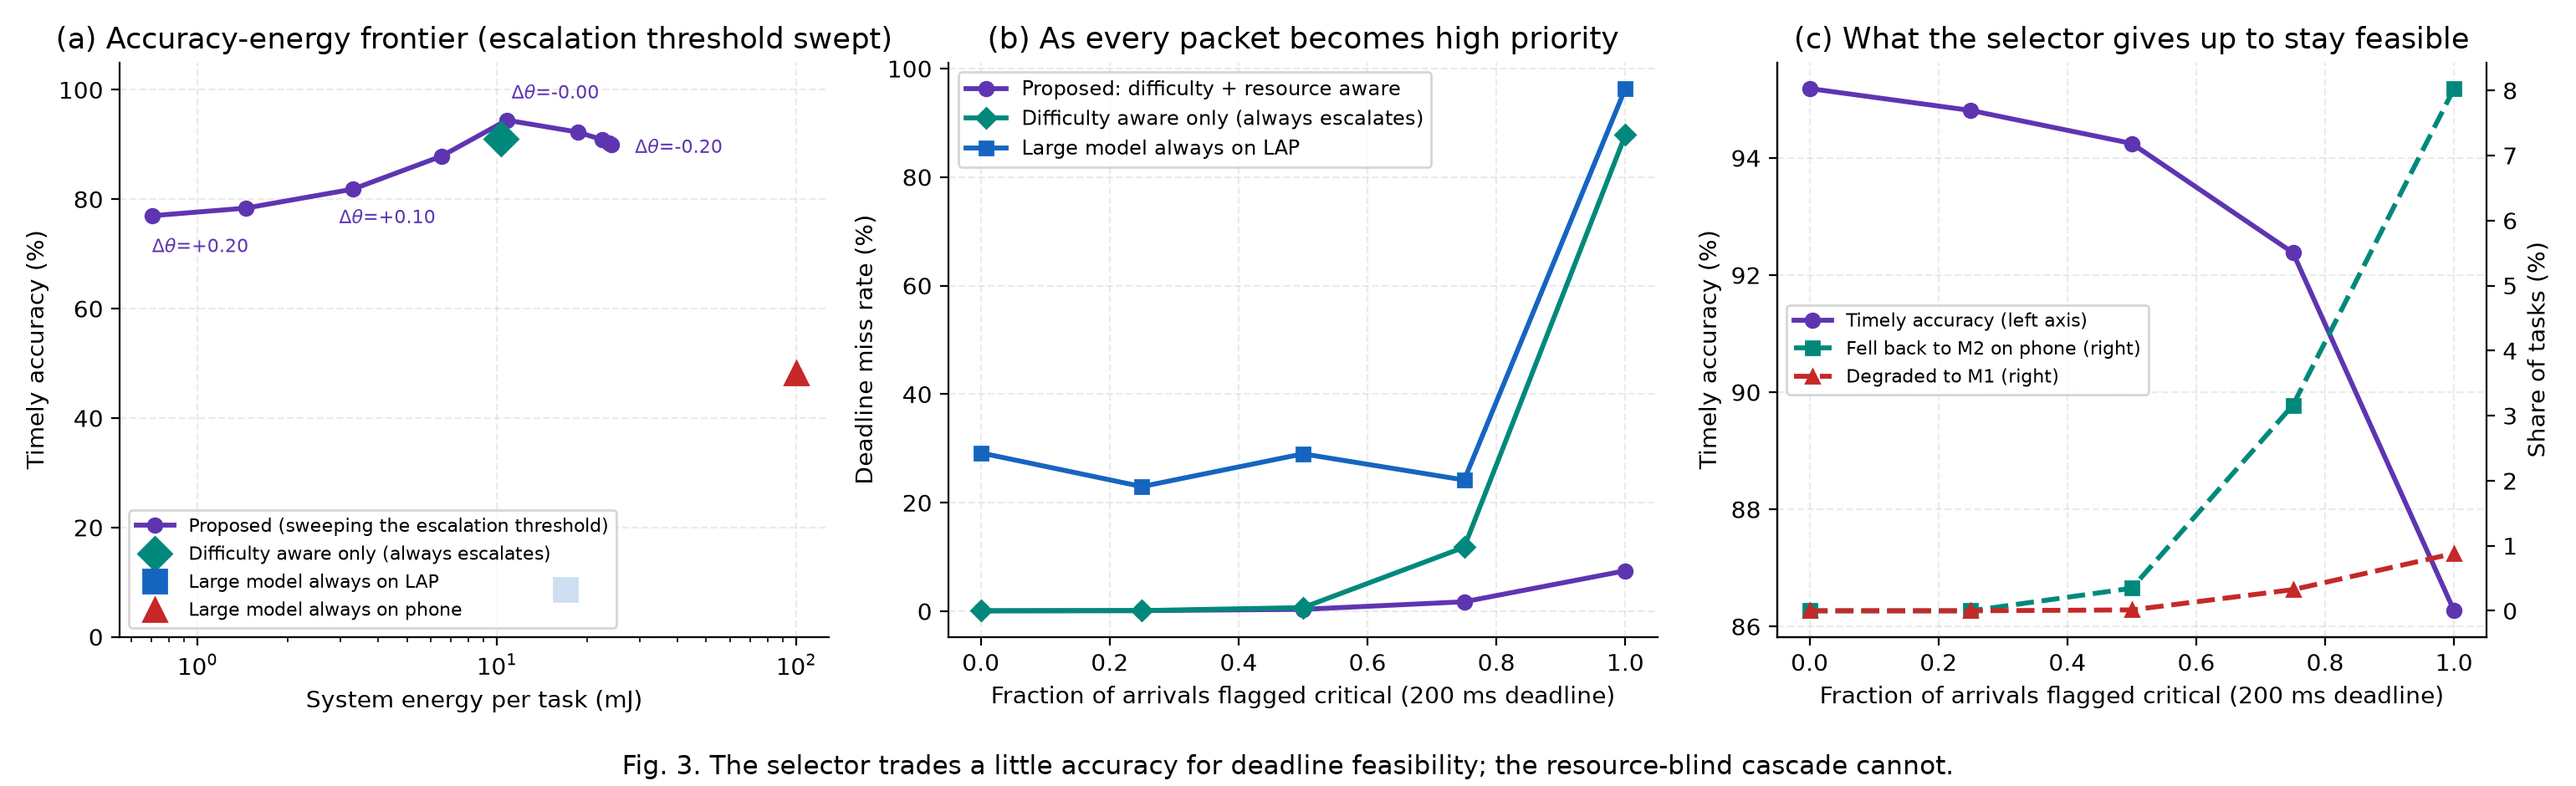
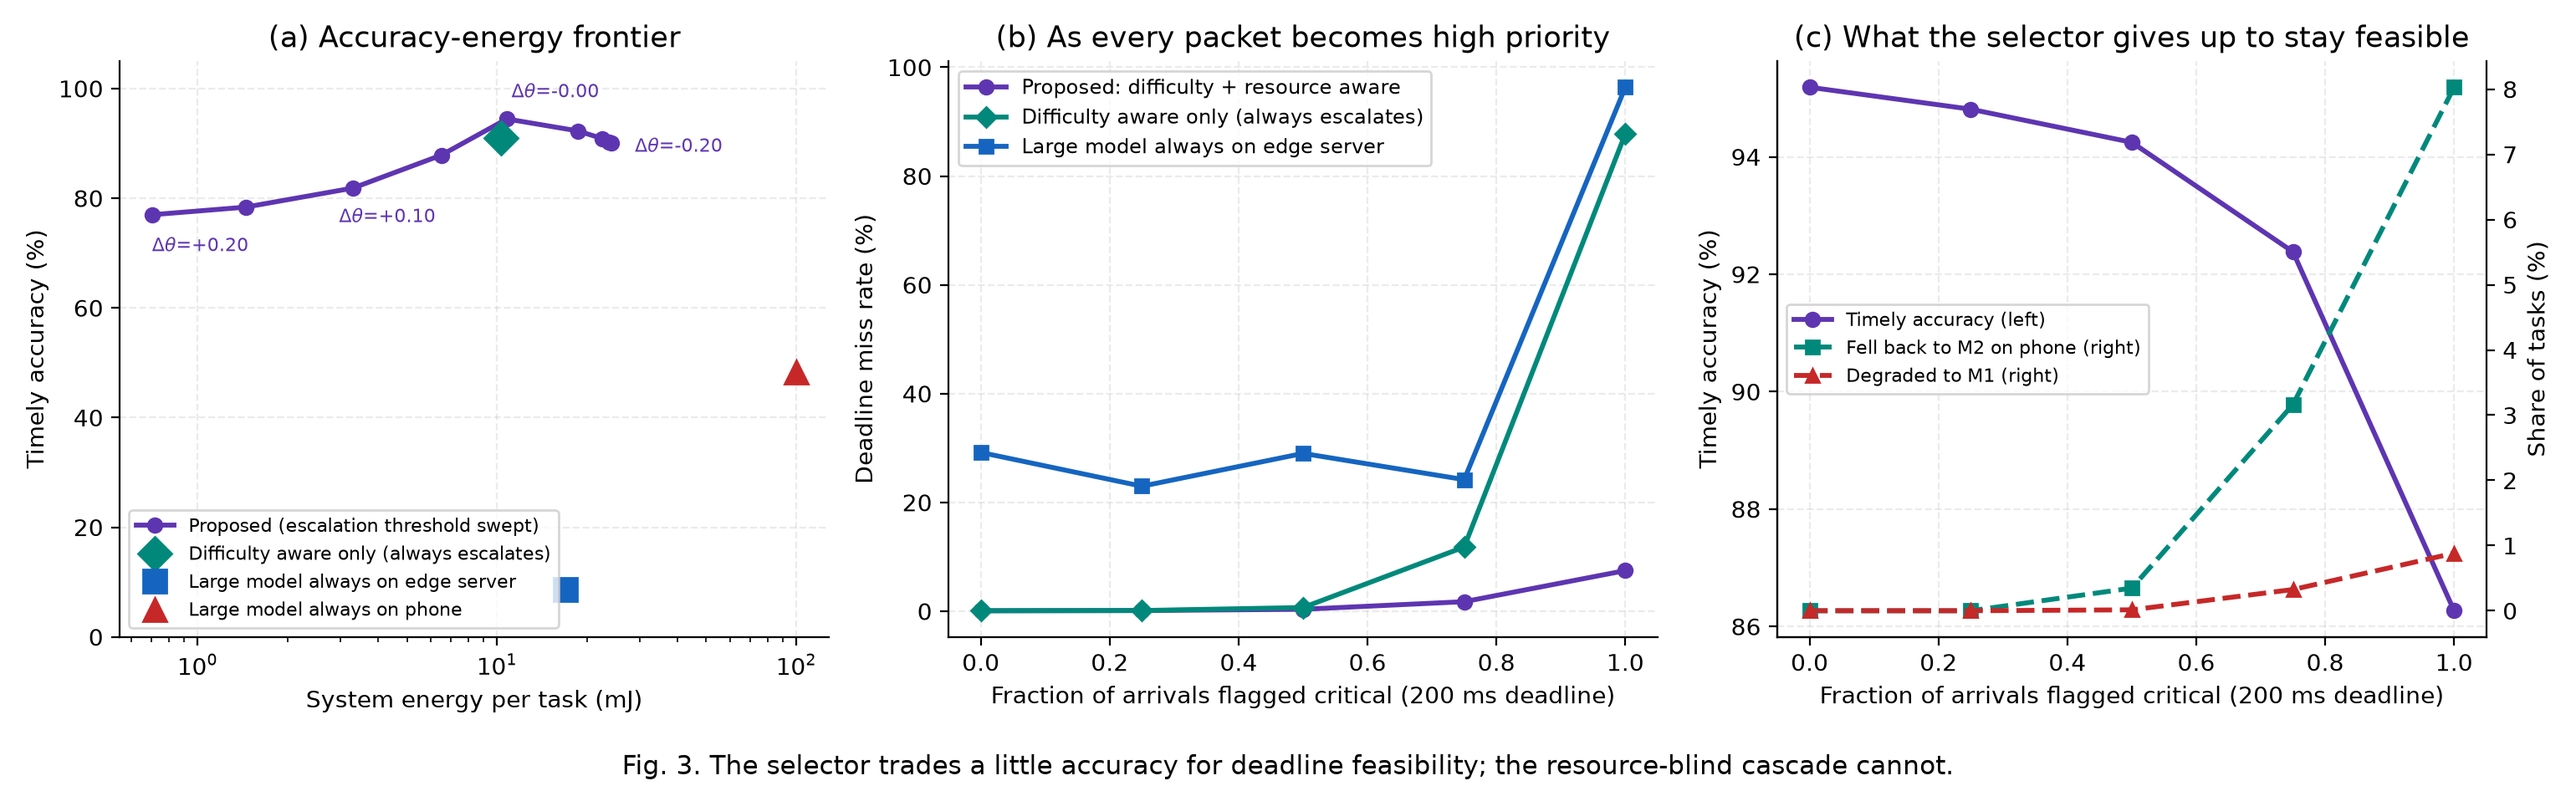
Updated plots

diff --git a/plots1.py b/plots1.py
@@ -1,0 +1,199 @@
+"""Figures from results.json — green-electronics framing."""
+
+import json
+import csv
+import numpy as np
+import matplotlib
+matplotlib.use("Agg")
+import matplotlib.pyplot as plt
+
+from sim import N_USERS, SIM_TIME
+
+OUT = "."
+D = json.load(open("results.json"))
+loads = np.array(D["loads"]) * D["base_rate"]
+crit = np.array(D["crit"])
+theta = np.array(D["theta"])
+RL, RC, RT, REF = D["res_load"], D["res_crit"], D["res_theta"], D["ref"]
+
+SCHEMES = ["proposed", "cascade", "big_lap", "big_phone"]
+STYLE = {
+    "proposed":  ("Proposed: difficulty + resource aware", "#5E35B1", "-o"),
+    "cascade":   ("Difficulty aware only (always escalates)", "#00897B", "-D"),
+    "big_lap":   ("Large model always on edge server", "#1565C0", "-s"),
+    "big_phone": ("Large model always on phone", "#C62828", "-^"),
+}
+KW = dict(lw=2.1, ms=6)
+
+
+def tidy(a):
+    a.grid(alpha=0.25, ls="--")
+    for sp in ("top", "right"):
+        a.spines[sp].set_visible(False)
+
+
+def e_useful(r):
+    """mJ spent per decision that is both correct and on time."""
+    return np.array(r["e_task"]) * 1e3 / np.maximum(np.array(r["timely_acc"]), 1e-6)
+
+
+def phone_mw(r):
+    """Average power the monitoring app draws from one phone."""
+    total_J = np.array(r["e_phone_task"]) * np.array(r["done"])
+    return total_J / (N_USERS * SIM_TIME) * 1e3
+
+
+# ================================================================= Fig 2
+fig, ax = plt.subplots(2, 3, figsize=(17.4, 8.8))
+
+# --- energy row ---
+for s_, (lab, c, mk) in STYLE.items():
+    ax[0, 0].plot(loads, np.array(RL[s_]["e_task"]) * 1e3, mk, color=c, label=lab, **KW)
+ax[0, 0].set_yscale("log")
+ax[0, 0].set_ylabel("System energy per task (mJ)")
+ax[0, 0].set_title("(a) Energy per task attempted", fontsize=12.5)
+ax[0, 0].legend(fontsize=8, loc="center left")
+
+for s_, (lab, c, mk) in STYLE.items():
+    ax[0, 1].plot(loads, e_useful(RL[s_]), mk, color=c, label=lab, **KW)
+ax[0, 1].set_yscale("log")
+ax[0, 1].set_ylabel("Energy per useful decision (mJ)")
+ax[0, 1].set_title("(b) Energy per correct, on-time decision", fontsize=12.5)
+
+for s_, (lab, c, mk) in STYLE.items():
+    ax[0, 2].plot(loads, phone_mw(RL[s_]), mk, color=c, label=lab, **KW)
+ax[0, 2].set_yscale("log")
+ax[0, 2].set_ylabel("Smartphone power draw (mW)")
+ax[0, 2].set_title("(c) Continuous drain on the consumer device", fontsize=12.5)
+
+# --- service-quality row ---
+for s_, (lab, c, mk) in STYLE.items():
+    ax[1, 0].plot(loads, np.array(RL[s_]["timely_acc"]) * 100, mk, color=c, label=lab, **KW)
+ax[1, 0].set_ylabel("Timely accuracy (%)")
+ax[1, 0].set_title("(d) Correct decisions before the deadline", fontsize=12.5)
+ax[1, 0].set_ylim(0, 100)
+
+for s_, (lab, c, mk) in STYLE.items():
+    ax[1, 1].plot(loads, np.array(RL[s_]["miss"]) * 100, mk, color=c, label=lab, **KW)
+ax[1, 1].set_ylabel("Deadline miss rate (%)")
+ax[1, 1].set_title("(e) Deadline misses", fontsize=12.5)
+ax[1, 1].set_ylim(-3, 100)
+
+p_ = RL["proposed"]
+m1 = np.array(p_["m1_share"]) * 100
+m2 = np.array(p_["m2_share"]) * 100
+m3 = np.array(p_["m3_share"]) * 100
+deg = np.array(p_["degraded"]) * 100
+ax[1, 2].stackplot(loads, m1 - deg, m2, m3, deg,
+                   labels=["M1 screener only (easy)", "M2 fusion on phone",
+                           "M3 fusion on edge", "Degraded: no capacity"],
+                   colors=["#EDE7F6", "#9575CD", "#4527A0", "#C62828"])
+ax[1, 2].set_ylabel("Share of tasks (%)")
+ax[1, 2].set_title("(f) Where the proposed scheme sends work", fontsize=12.5)
+ax[1, 2].set_ylim(0, 100)
+ax[1, 2].set_xlim(loads[0], loads[-1])
+ax[1, 2].legend(fontsize=8, loc="center left")
+
+for a in ax.flat:
+    a.set_xlabel("Offered load (tasks/s across all patients)")
+    tidy(a)
+
+fig.tight_layout(rect=[0, 0.035, 1, 1])
+fig.text(0.5, 0.012, f"Fig. 2. {N_USERS} patients, six sensors each, sharing one edge "
+                     "server. M1 screens a single stream; M2 and M3 fuse all six. "
+                     "(a) and (b) differ because work the congested baselines never "
+                     "finish costs them no energy.",
+         ha="center", fontsize=11)
+fig.savefig(f"{OUT}/results_main.png", dpi=200)
+
+# ================================================================= Fig 3
+fig2, ax2 = plt.subplots(1, 3, figsize=(15.4, 4.7))
+
+# (a) accuracy-energy frontier as the escalation threshold moves
+t = RT["proposed"]
+ax2[0].plot(np.array(t["e_task"]) * 1e3, np.array(t["timely_acc"]) * 100, "-o",
+               color="#5E35B1", label="Proposed (escalation threshold swept)", **KW)
+for i, th in enumerate(theta):
+    if th in (-0.20, 0.0, 0.10, 0.20):
+        dx, dy = {-0.20: (10, -4), 0.0: (2, 9), 0.10: (-6, -15), 0.20: (0, -16)}[th]
+        ax2[0].annotate(f"$\\Delta\\theta$={th:+.2f}",
+                           (t["e_task"][i] * 1e3, t["timely_acc"][i] * 100),
+                           textcoords="offset points", xytext=(dx, dy), fontsize=8,
+                           color="#5E35B1")
+for s in ("cascade", "big_lap", "big_phone"):
+    lab, c, mk = STYLE[s]
+    ax2[0].plot(REF[s]["e_task"] * 1e3, REF[s]["timely_acc"] * 100, mk[-1],
+                   color=c, ms=10, label=lab)
+ax2[0].set_xscale("log")
+ax2[0].set_xlabel("System energy per task (mJ)")
+ax2[0].set_ylabel("Timely accuracy (%)")
+ax2[0].set_title("(a) Accuracy-energy frontier", fontsize=12.5)
+ax2[0].legend(fontsize=8, loc="lower left")
+ax2[0].set_ylim(0, 105)
+
+# (c) all-critical stress
+for s in [x for x in ("proposed", "cascade", "big_lap") if x in RC]:
+    lab, c, mk = STYLE[s]
+    ax2[1].plot(crit, np.array(RC[s]["miss"]) * 100, mk, color=c, label=lab, **KW)
+ax2[1].set_xlabel("Fraction of arrivals flagged critical (200 ms deadline)")
+ax2[1].set_ylabel("Deadline miss rate (%)")
+ax2[1].set_title("(b) As every packet becomes high priority", fontsize=12.5)
+ax2[1].legend(fontsize=8.5)
+
+# (d) what the selector gives up
+ax2[2].plot(crit, np.array(RC["proposed"]["timely_acc"]) * 100, "-o",
+               color="#5E35B1", label="Timely accuracy (left)", **KW)
+ax2[2].set_xlabel("Fraction of arrivals flagged critical (200 ms deadline)")
+ax2[2].set_ylabel("Timely accuracy (%)")
+ax2[2].set_title("(c) What the selector gives up to stay feasible", fontsize=12.5)
+ax3 = ax2[2].twinx()
+ax3.plot(crit, np.array(RC["proposed"]["m2_share"]) * 100, "--s",
+         color="#00897B", label="Fell back to M2 on phone (right)", **KW)
+ax3.plot(crit, np.array(RC["proposed"]["degraded"]) * 100, "--^",
+         color="#C62828", label="Degraded to M1 (right)", **KW)
+ax3.set_ylabel("Share of tasks (%)")
+ax3.spines["top"].set_visible(False)
+h1, l1 = ax2[2].get_legend_handles_labels()
+h2, l2 = ax3.get_legend_handles_labels()
+ax2[2].legend(h1 + h2, l1 + l2, fontsize=8, loc="center left")
+
+for a in ax2:
+    tidy(a)
+fig2.tight_layout(rect=[0, 0.06, 1, 1])
+fig2.text(0.5, 0.015, "Fig. 3. The selector trades a little accuracy for deadline "
+                      "feasibility; the resource-blind cascade cannot.",
+          ha="center", fontsize=11)
+fig2.savefig(f"{OUT}/results_tradeoff.png", dpi=200)
+
+# ================================================================= CSV
+with open(f"{OUT}/results.csv", "w", newline="") as f:
+    w = csv.writer(f)
+    w.writerow(["sweep", "scheme", "x", "energy_per_task_mJ",
+                "energy_per_useful_decision_mJ", "phone_energy_per_task_mJ",
+                "accuracy", "timely_accuracy", "miss_pct", "degraded_pct",
+                "m1_pct", "m2_pct", "m3_pct", "lat_mean_ms"])
+    for lab, res, xs in (("load_tasks_per_s", RL, loads),
+                         ("crit_frac", RC, crit),
+                         ("theta_shift", RT, theta)):
+        for s, r in res.items():
+            eu = e_useful(r)
+            for i, xv in enumerate(xs):
+                w.writerow([lab, s, round(float(xv), 3),
+                            round(r["e_task"][i] * 1e3, 3),
+                            round(float(eu[i]), 2),
+                            round(r["e_phone_task"][i] * 1e3, 3),
+                            round(r["acc"][i], 4),
+                            round(r["timely_acc"][i], 4),
+                            round(r["miss"][i] * 100, 2),
+                            round(r["degraded"][i] * 100, 2),
+                            round(r["m1_share"][i] * 100, 2),
+                            round(r["m2_share"][i] * 100, 2),
+                            round(r["m3_share"][i] * 100, 2),
+                            round(r["lat_mean"][i] * 1e3, 2)])
+
+print("figures + csv written\n")
+print(f"{'scheme':11s} {'mJ/useful @low':>15} {'@high':>9} "
+      f"{'phone mW @low':>14} {'@high':>9}")
+for s in SCHEMES:
+    r, eu, pw = RL[s], e_useful(RL[s]), phone_mw(RL[s])
+    print(f"{s:11s} {eu[0]:15.1f} {eu[-1]:9.1f} {pw[0]:14.1f} {pw[-1]:9.1f}")

diff --git a/runsweep.py b/runsweep.py
@@ -3,7 +3,7 @@ import json, sys, numpy as np
 from sim import run, SENSORS, N_USERS
 
 SCHEMES = ["proposed", "cascade", "big_lap", "big_phone"]
-KEYS = ("ee", "e_task", "e_phone_task", "acc", "timely_acc", "lat_mean",
+KEYS = ("ee", "e_task", "e_phone_task", "acc", "timely_acc", "done", "lat_mean",
         "lat_crit", "miss", "degraded", "m1_share", "m2_share", "m3_share")
 BASE_RATE = sum(s["rate"] for s in SENSORS.values()) * N_USERS
 
